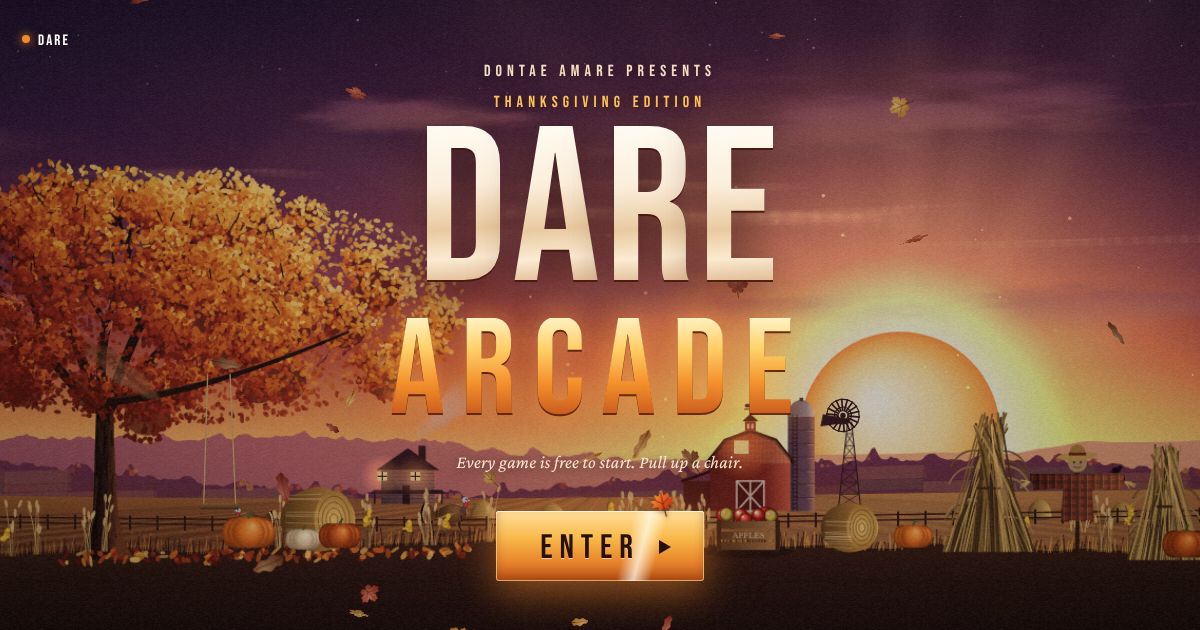
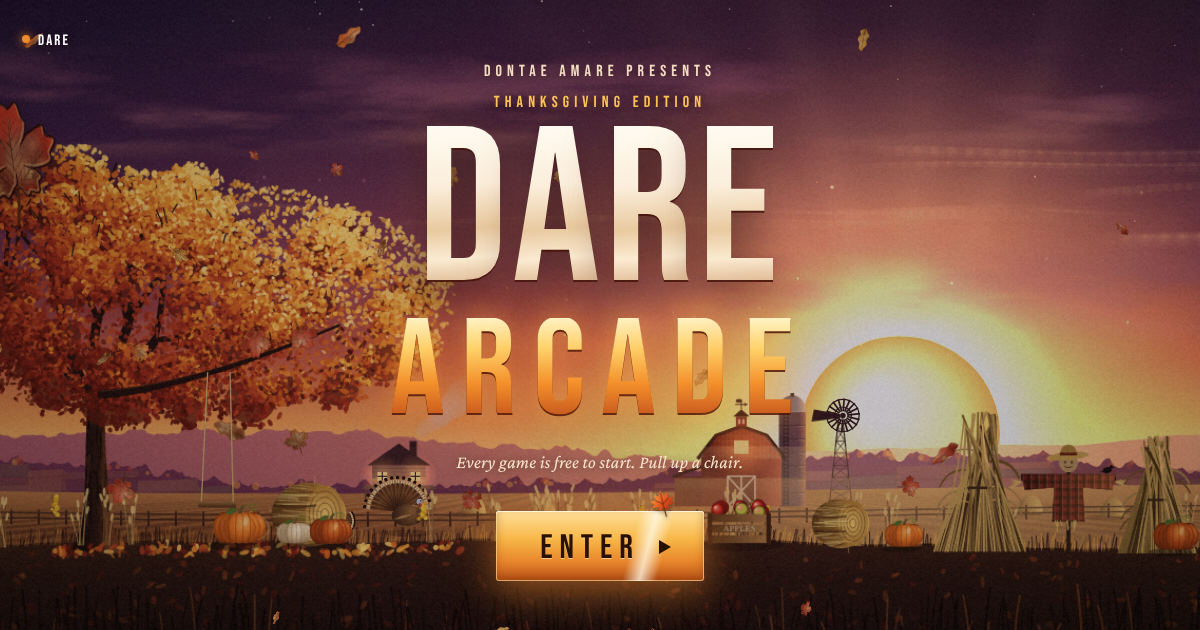
Thanksgiving sunset: solid close-up leaves and richer detail
Close-up leaves are fully opaque, drawn from a large high-resolution set in deep backlit colors
with a soft shadow. All leaves get veins, serrated edges, mottling, age spots and a sunlit rim.
Ribbed glossy pumpkins with vines, textured hay bales with twine, canopy highlights and shade,
soil and leaf litter, grass framing the bottom edge, golden haze on the field, sun glow over the
ridges and a slightly flattened, banded sun. Layers are now centered exactly, so moving pieces
stay lined up with them. New share image.

Claude-Session: https://claude.ai/code/session_0125wngWvCLiCHwUWvS1b6kB

diff --git a/thanksgiving.js b/thanksgiving.js
@@ -76,26 +76,55 @@
     }
     p.closePath(); return p;
   }
-  function leafSprite(kind, col, S) {
+  function leafSprite(kind, col, S, rs, deep) {
+    const R2 = rs || Math.random;
     const c = mk(S * 2.4, S * 2.4), g = c.getContext("2d"); g.translate(S * 1.2, S * 1.15);
-    const path = kind === "maple" ? maplePath(S) : oakPath(S);
+    const path = kind === "maple" ? maplePath(S) : oakPath(S), big = S > 40;
     const gr = g.createLinearGradient(-S, -S, S, S); gr.addColorStop(0, col[0]); gr.addColorStop(1, col[1]);
     g.fillStyle = gr; g.fill(path);
     g.save(); g.clip(path);
-    const sh = g.createRadialGradient(-S * .3, -S * .4, 1, 0, 0, S * 1.2); sh.addColorStop(0, "rgba(255,240,200,.35)"); sh.addColorStop(1, "rgba(60,10,0,.25)");
-    g.fillStyle = sh; g.fillRect(-S * 1.2, -S * 1.2, S * 2.4, S * 2.4); g.restore();
-    g.strokeStyle = "rgba(70,20,5,.55)"; g.lineWidth = Math.max(.6, S * .06); g.lineCap = "round";
-    g.beginPath(); g.moveTo(0, S * .62); g.lineTo(0, -S * .8);
-    if (kind === "maple") { g.moveTo(0, S * .1); g.lineTo(-S * .55, -S * .35); g.moveTo(0, S * .1); g.lineTo(S * .55, -S * .35); }
-    g.stroke();
-    g.beginPath(); g.moveTo(0, S * .55); g.lineTo(S * .05, S * 1.05); g.lineWidth = Math.max(.8, S * .08); g.strokeStyle = "rgba(90,40,10,.9)"; g.stroke();
+    // mottled color: patches of lighter and deeper tones, a few dark age spots
+    for (let i = 0; i < (big ? 26 : 9); i++) {
+      const x = (R2() - .5) * S * 1.8, y = (R2() - .5) * S * 1.8, r = S * (.15 + R2() * .4), light = R2() < .5;
+      const bl = g.createRadialGradient(x, y, 1, x, y, r); bl.addColorStop(0, light ? "rgba(255,226,140,.35)" : "rgba(110,20,6,.32)"); bl.addColorStop(1, "rgba(0,0,0,0)");
+      g.fillStyle = bl; g.fillRect(x - r, y - r, r * 2, r * 2);
+    }
+    for (let i = 0; i < (big ? 10 : 2); i++) { g.fillStyle = `rgba(60,20,6,${.25 + R2() * .3})`; g.beginPath(); g.arc((R2() - .5) * S * 1.3, (R2() - .5) * S * 1.3, S * (.015 + R2() * .035), 0, Math.PI * 2); g.fill(); }
+    const sh = g.createRadialGradient(-S * .3, -S * .45, 1, 0, 0, S * 1.2); sh.addColorStop(0, `rgba(255,244,210,${deep ? .18 : .4})`); sh.addColorStop(.6, "rgba(255,200,120,0)"); sh.addColorStop(1, `rgba(50,8,0,${deep ? .36 : .38})`);
+    g.fillStyle = sh; g.fillRect(-S * 1.2, -S * 1.2, S * 2.4, S * 2.4);
+    // veins: main ribs from the stem, with finer side veins
+    const vein = (x0, y0, ang, len, w) => {
+      const x1 = x0 + Math.cos(ang) * len, y1 = y0 + Math.sin(ang) * len;
+      g.strokeStyle = "rgba(80,22,6,.6)"; g.lineWidth = w; g.beginPath(); g.moveTo(x0, y0); g.quadraticCurveTo((x0 + x1) / 2 + Math.cos(ang + 1.57) * len * .05, (y0 + y1) / 2 + Math.sin(ang + 1.57) * len * .05, x1, y1); g.stroke();
+      g.strokeStyle = "rgba(255,220,160,.28)"; g.lineWidth = w * .45; g.beginPath(); g.moveTo(x0 + .6, y0 - .6); g.lineTo(x1 + .6, y1 - .6); g.stroke();
+      const n = big ? 6 : 3;
+      for (let k = 1; k <= n; k++) { const u = k / (n + 1), px = x0 + (x1 - x0) * u, py = y0 + (y1 - y0) * u;
+        for (const side of [-1, 1]) { const a2 = ang + side * .75, l2 = len * .32 * (1 - u * .5);
+          g.strokeStyle = "rgba(80,22,6,.38)"; g.lineWidth = w * .4; g.beginPath(); g.moveTo(px, py); g.lineTo(px + Math.cos(a2) * l2, py + Math.sin(a2) * l2); g.stroke(); } }
+    };
+    g.lineCap = "round";
+    const vw = Math.max(.6, S * .05), base = [0, S * .5];
+    if (kind === "maple") { for (const [a2, l2] of [[-Math.PI / 2, 1.25], [-Math.PI / 2 - .85, .95], [-Math.PI / 2 + .85, .95], [-Math.PI / 2 - 1.75, .6], [-Math.PI / 2 + 1.75, .6]]) vein(base[0], base[1], a2, S * l2, vw * (l2 > 1 ? 1 : .8)); }
+    else { vein(0, S * .6, -Math.PI / 2, S * 1.5, vw); }
+    g.restore();
+    // edge: a darker margin, and a thin bright rim where the sun shines through
+    g.strokeStyle = deep ? "rgba(40,6,2,.9)" : "rgba(70,14,4,.6)"; g.lineWidth = Math.max(.6, S * (deep ? .045 : .035)); g.stroke(path);
+    g.save(); g.clip(path); g.strokeStyle = "rgba(255,210,130,.35)"; g.lineWidth = Math.max(.8, S * .05); g.translate(S * .03, -S * .03); g.stroke(path); g.restore();
+    g.beginPath(); g.moveTo(0, S * .5); g.quadraticCurveTo(S * .02, S * .85, S * .1, S * 1.08); g.lineWidth = Math.max(.8, S * .07); g.strokeStyle = "rgba(90,40,10,.95)"; g.stroke();
     return c;
   }
-  let SPRITES = [];
+  let SPRITES = [], BIG = [];
   function makeSprites() {
     const S = Math.round(14 * D);
     SPRITES = [];
-    for (const col of LEAF_COLORS) { SPRITES.push(leafSprite("maple", col, S)); SPRITES.push(leafSprite("oak", col, S * .9)); }
+    for (const col of LEAF_COLORS) { SPRITES.push(leafSprite("maple", col, S, rnd)); SPRITES.push(leafSprite("oak", col, S * .9, rnd)); }
+    if (!BIG.length || BIG.D !== D) {                                 // the close-to-the-lens leaves, drawn large so they stay crisp and solid
+      BIG = []; BIG.D = D; const B = Math.round(54 * Math.min(D, 1.5));
+      // close to the lens and backlit by the sunset, these read deeper and richer than the leaves far away
+      const CLOSE = [["#ff8a2a", "#a8240a"], ["#f04a22", "#7a1206"], ["#ffb43a", "#b84a0e"], ["#e0581e", "#6a1a06"], ["#ff9c2e", "#8e2a08"], ["#e23a22", "#6e1006"]];
+      for (const col of CLOSE) { BIG.push(leafSprite("maple", col, B, rnd, true)); BIG.push(leafSprite("oak", col, B * .9, rnd, true)); }
+      BIG.k = B / 14;
+    }
   }
 
   /* ---------- per-size layers ---------- */
@@ -158,7 +187,11 @@
     const disc = mk(R * 2.2 * D, R * 2.2 * D), dg = disc.getContext("2d"); dg.scale(D, D);
     const dr = dg.createRadialGradient(R * 1.1 - R * .25, R * 1.1 - R * .3, R * .1, R * 1.1, R * 1.1, R);
     dr.addColorStop(0, "#fffbe8"); dr.addColorStop(.55, "#ffe39a"); dr.addColorStop(.86, "#ffb553"); dr.addColorStop(1, "#ff9640");
-    dg.fillStyle = dr; dg.beginPath(); dg.arc(R * 1.1, R * 1.1, R, 0, Math.PI * 2); dg.fill();
+    dg.fillStyle = dr; dg.beginPath(); dg.ellipse(R * 1.1, R * 1.1 + R * .02, R, R * .975, 0, 0, Math.PI * 2); dg.fill();
+    dg.save(); dg.beginPath(); dg.ellipse(R * 1.1, R * 1.1 + R * .02, R, R * .975, 0, 0, Math.PI * 2); dg.clip();
+    for (let k = 0; k < 6; k++) { const yy = R * 1.1 + R * (.15 + k * .14); dg.fillStyle = `rgba(255,120,60,${.05 + k * .03})`; dg.fillRect(0, yy, R * 2.2, R * (.02 + k * .008)); }
+    const limb = dg.createRadialGradient(R * 1.1, R * 1.1, R * .6, R * 1.1, R * 1.1, R); limb.addColorStop(0, "rgba(255,120,40,0)"); limb.addColorStop(1, "rgba(230,90,30,.35)");
+    dg.fillStyle = limb; dg.fillRect(0, 0, R * 2.2, R * 2.2); dg.restore();
     L.disc = disc;
     const RS = Math.hypot(Math.max(sun.x, W - sun.x), sun.y) * 1.02, RK = .32, rays = mk(RS * 2 * RK, RS * 2 * RK), rg = rays.getContext("2d"); rg.scale(RK, RK);
     rg.translate(RS, RS);
@@ -338,6 +371,10 @@
     const fenceY = x => fy + fd * .52 + Math.sin(x / W * Math.PI * 1.2 + .4) * 5;
     for (let x = -10; x < W + 20; x += 26) { m.beginPath(); m.moveTo(x, fenceY(x) + 2); m.lineTo(x, fenceY(x) - 12); m.stroke(); }
     m.lineWidth = 1.4; for (const off of [-9, -4]) { m.beginPath(); for (let x = -10; x < W + 20; x += 13) m.lineTo(x, fenceY(x) + off); m.stroke(); }
+    { const hz = m.createLinearGradient(0, fy - 6, 0, fy + fd * .7); hz.addColorStop(0, "rgba(255,190,120,.32)"); hz.addColorStop(1, "rgba(255,170,100,0)");
+      m.globalCompositeOperation = "source-atop"; m.fillStyle = hz; m.fillRect(0, fy - 10, W, fd);
+      const hz2 = m.createRadialGradient(sun.x, fy, 10, sun.x, fy, W * .45); hz2.addColorStop(0, "rgba(255,210,140,.3)"); hz2.addColorStop(1, "rgba(255,190,120,0)");
+      m.fillStyle = hz2; m.fillRect(0, fy - 40, W, fd + 40); m.globalCompositeOperation = "source-over"; }
     L.farm = farm;
 
     /* foreground: dark ground with lit grass, big autumn tree, hay bales, pumpkins, corn shocks */
@@ -355,6 +392,19 @@
       n.lineWidth = .9; n.beginPath(); n.moveTo(x, y + 2); n.quadraticCurveTo(x + lean * .4, y - h * .5, x + lean, y - h); n.stroke();
     }
     L.gy = gy;
+    n.save(); n.beginPath(); n.moveTo(0, H); for (let x = 0; x <= W; x += 4) n.lineTo(x, gy(x) + 6); n.lineTo(W, H); n.closePath(); n.clip();
+    for (let i = 0, k = Math.round(W * (H - yG) / 110); i < k; i++) {                    // soil and fallen leaves
+      const x = rnd() * W, y = yG + rnd() * (H - yG), near = (y - yG) / (H - yG);
+      if (rnd() < .3) { n.fillStyle = pick(["#5e140b", "#7a1c10", "#9c2a16", "#b8401c", "#c4581c"]); n.globalAlpha = (.22 + rnd() * .25) * (1 - near * .75);
+        n.beginPath(); n.ellipse(x, y, 1.6 + rnd() * 3 + near * 3, 1 + rnd() * 1.4 + near, rnd() * Math.PI, 0, Math.PI * 2); n.fill(); }
+      else { n.fillStyle = rnd() < .5 ? "rgba(70,36,18,.45)" : "rgba(8,3,2,.4)"; n.globalAlpha = 1; n.fillRect(x, y, 1 + rnd() * 2, 1); }
+    }
+    n.globalAlpha = 1; n.restore();
+    for (let x = -10; x < W + 10; x += 3 + rnd() * 4) {                                   // tall grass in silhouette along the very bottom
+      const h = 14 + rnd() * (wide ? 46 : 30), lean = (rnd() - .5) * 18;
+      n.strokeStyle = rnd() < .85 ? "rgba(10,4,2,.92)" : "rgba(120,60,24,.6)"; n.lineWidth = 1 + rnd() * 1.4;
+      n.beginPath(); n.moveTo(x, H + 2); n.quadraticCurveTo(x + lean * .3, H - h * .6, x + lean, H - h); n.stroke();
+    }
 
     // the tree, on the left: trunk and branches, then the canopy as shaded clusters of leaves, lit from the sun side
     const phone = W < 600;
@@ -412,6 +462,14 @@
       n.fillStyle = LC[ci]; n.globalAlpha = .7 + rnd() * .3;
       n.beginPath(); n.ellipse(x, y, 1.4 + rnd() * 2.2, 1 + rnd() * 1.4, rnd() * Math.PI, 0, Math.PI * 2); n.fill();
     }
+    for (let j = 0, k = Math.round(crx * cry / 22); j < k; j++) {
+      const a = rnd() * Math.PI * 2, r = Math.sqrt(rnd());
+      const x = ccx + Math.cos(a) * crx * r, y = ccy + Math.sin(a) * cry * r, l2 = litAt(x, y);
+      if (y > ccy + cry * .25 && rnd() < .8) { n.fillStyle = rnd() < .5 ? "#3e0c06" : "#5a1408"; n.globalAlpha = .55 + rnd() * .3; }      // shade under the crown
+      else if (l2 > .55) { n.fillStyle = rnd() < .5 ? "#ffe08a" : "#ffc04a"; n.globalAlpha = .6 + rnd() * .4; }                         // leaves catching the sun
+      else continue;
+      n.beginPath(); n.ellipse(x, y, 1.2 + rnd() * 2, .9 + rnd() * 1.2, rnd() * Math.PI, 0, Math.PI * 2); n.fill();
+    }
     n.globalAlpha = 1;
     // a few branch ends poke out under the leaves
     n.strokeStyle = "#1c0c08"; n.lineCap = "round";
@@ -443,16 +501,34 @@
       n.fillStyle = g4; n.beginPath(); n.ellipse(fx, y - r * .9, r * .55, r * .82, 0, 0, Math.PI * 2); n.fill();
       n.strokeStyle = "rgba(90,50,15,.55)"; n.lineWidth = 1;
       for (let k = 1; k < 5; k++) { n.beginPath(); n.ellipse(fx, y - r * .9, r * .55 * k / 5, r * .82 * k / 5, 0, 0, Math.PI * 2); n.stroke(); }
-      n.strokeStyle = "rgba(255,220,150,.35)"; for (let k = 0; k < 14; k++) { const yy = y - r * .2 - rnd() * r * 1.4; n.beginPath(); n.moveTo(x - r * .9, yy); n.lineTo(x + r * .1, yy + (rnd() - .5) * 3); n.stroke(); }
+      n.save(); n.beginPath(); n.ellipse(x, y - r * .9, r * 1.05, r * .9, 0, 0, Math.PI * 2); n.clip();
+      for (let k = 0; k < 70; k++) { const yy = y - r * .05 - rnd() * r * 1.75, x0 = x - r * 1.05 + rnd() * r * .5;
+        n.strokeStyle = rnd() < .55 ? `rgba(255,${210 + rnd() * 30 | 0},140,${.25 + rnd() * .3})` : `rgba(80,45,12,${.25 + rnd() * .25})`; n.lineWidth = .6 + rnd() * .7;
+        n.beginPath(); n.moveTo(x0, yy); n.quadraticCurveTo(x0 + r * .5, yy + (rnd() - .5) * 4, x0 + r * (.6 + rnd() * .5), yy + (rnd() - .5) * 5); n.stroke(); }
+      n.strokeStyle = "rgba(60,30,10,.7)"; n.lineWidth = Math.max(1, r * .06);                                       // twine wraps
+      for (const u of [.35, .65]) { const yy = y - r * .9 - r * .9 + u * r * 1.8; n.beginPath(); n.moveTo(x - r * 1.05, yy); n.quadraticCurveTo(x - r * .2, yy + r * .08, x + r * .2, yy + r * .02); n.stroke(); }
+      n.restore();
+      for (let k = 0; k < 16; k++) { const a = rnd() * Math.PI * 2; n.strokeStyle = "rgba(240,200,120,.6)"; n.lineWidth = .7;           // loose straw on the outline
+        const ex = x + Math.cos(a) * r * 1.03, ey = y - r * .9 + Math.sin(a) * r * .88; n.beginPath(); n.moveTo(ex, ey); n.lineTo(ex + Math.cos(a) * (2 + rnd() * 5), ey + Math.sin(a) * (2 + rnd() * 5)); n.stroke(); }
     };
     const pumpkin = (x, S, hue) => {
       const y = gy(x) + 3, cx = x, cy = y - S * .42;
+      n.fillStyle = "rgba(20,8,2,.45)"; n.beginPath(); n.ellipse(cx - lit * S * .15, y + 1, S * .62, S * .12, 0, 0, Math.PI * 2); n.fill();
       for (const [ox, rx] of [[-.34, .3], [.34, .3], [-.16, .36], [.16, .36], [0, .4]]) {
-        const gr = n.createRadialGradient(cx + ox * S + rx * S * .3, cy - S * .15, S * .03, cx + ox * S, cy, rx * S * 1.2);
+        const gr = n.createRadialGradient(cx + ox * S + lit * rx * S * .35, cy - S * .16, S * .03, cx + ox * S, cy, rx * S * 1.25);
         gr.addColorStop(0, hue[0]); gr.addColorStop(.5, hue[1]); gr.addColorStop(1, hue[2]);
         n.fillStyle = gr; n.beginPath(); n.ellipse(cx + ox * S, cy, rx * S, S * .38, 0, 0, Math.PI * 2); n.fill();
       }
-      n.fillStyle = "#4a5a22"; n.beginPath(); n.moveTo(cx - S * .04, cy - S * .34); n.quadraticCurveTo(cx, cy - S * .5, cx + S * .1, cy - S * .55); n.lineTo(cx + S * .12, cy - S * .5); n.quadraticCurveTo(cx + S * .04, cy - S * .44, cx + S * .05, cy - S * .34); n.fill();
+      n.strokeStyle = "rgba(60,16,0,.35)"; n.lineWidth = Math.max(.7, S * .025);                                    // ribs
+      for (const ox of [-.26, -.09, .09, .26]) { n.beginPath(); n.moveTo(cx + ox * S * .8, cy - S * .35); n.quadraticCurveTo(cx + ox * S * 1.3, cy, cx + ox * S * .8, cy + S * .36); n.stroke(); }
+      n.fillStyle = "rgba(255,240,210,.28)"; n.beginPath(); n.ellipse(cx + lit * S * .16, cy - S * .16, S * .06, S * .14, lit * .3, 0, Math.PI * 2); n.fill();   // gloss
+      n.strokeStyle = "rgba(255,200,130,.4)"; n.lineWidth = Math.max(.8, S * .03); n.beginPath(); n.ellipse(cx, cy, S * .72, S * .38, 0, lit > 0 ? -1 : 2.2, lit > 0 ? .9 : 4.1); n.stroke();   // rim light
+      n.fillStyle = "#5d4a22"; n.beginPath(); n.moveTo(cx - S * .05, cy - S * .34); n.quadraticCurveTo(cx - S * .02, cy - S * .5, cx + S * .09, cy - S * .56);
+      n.lineTo(cx + S * .13, cy - S * .5); n.quadraticCurveTo(cx + S * .04, cy - S * .45, cx + S * .06, cy - S * .34); n.closePath(); n.fill();
+      n.strokeStyle = "rgba(150,130,70,.6)"; n.lineWidth = .7; n.beginPath(); n.moveTo(cx - S * .02, cy - S * .36); n.quadraticCurveTo(cx, cy - S * .48, cx + S * .08, cy - S * .53); n.stroke();
+      n.strokeStyle = "#6f7a2a"; n.lineWidth = Math.max(.8, S * .025); n.beginPath(); n.moveTo(cx + S * .1, cy - S * .5);
+      n.bezierCurveTo(cx + S * .4, cy - S * .7, cx + S * .5, cy - S * .4, cx + S * .32, cy - S * .42); n.bezierCurveTo(cx + S * .22, cy - S * .44, cx + S * .28, cy - S * .55, cx + S * .36, cy - S * .5); n.stroke();
+      n.fillStyle = "#4f6a24"; n.beginPath(); n.ellipse(cx - S * .2, cy - S * .4, S * .14, S * .07, -.4, 0, Math.PI * 2); n.fill();
     };
     const ORANGE = ["#ffb45a", "#e8701c", "#7a2c08"], CREAM = ["#fff0d0", "#e4c79a", "#8a6a44"], DEEP = ["#ff9a40", "#c44c12", "#5a1c06"];
     const shock = (x, h) => {                                      // corn stalks tied into a teepee
@@ -566,12 +642,12 @@
       flip: rnd() * 6.3, ff: 1.2 + rnd() * 2.6, s: .55 + rnd() * .75, spr: Math.floor(rnd() * 1e6) };
   }
   function drawLeaf(l, x, y) {
-    const sp = SPRITES[l.spr % SPRITES.length]; if (!sp) return;
-    const w = sp.width / D * l.s, h = sp.height / D * l.s;
-    ctx.save(); ctx.translate(x, y); ctx.rotate(l.rot); ctx.scale(Math.cos(l.flip) * .85 + (Math.cos(l.flip) >= 0 ? .15 : -.15), 1);
+    const set = l.big && BIG.length ? BIG : SPRITES, sp = set[l.spr % set.length]; if (!sp) return;
+    const big = l.big && BIG.length, w = (big ? sp.width / BIG.k : sp.width / D) * l.s, h = (big ? sp.height / BIG.k : sp.height / D) * l.s, c = Math.cos(l.flip);
+    ctx.save(); ctx.translate(x, y); ctx.rotate(l.rot); ctx.scale(c * .85 + (c >= 0 ? .15 : -.15), 1);
+    if (l.big) { ctx.shadowColor = "rgba(20,6,2,.35)"; ctx.shadowBlur = 8; ctx.shadowOffsetY = 4; }   // a soft shadow sells how close it is
     ctx.drawImage(sp, -w / 2, -h / 2, w, h); ctx.restore();
   }
-
   function newFlock() {
     const n = 7 + Math.floor(rnd() * 4), dir = -1, s = clamp(W / 120, 5, 9);
     const y = H * (.12 + rnd() * .16), birds = [];
@@ -736,8 +812,12 @@
     }
 
     const sc = Math.max(1.04, 1 + 2 * (30 * PK() + 3) / W), [fxs, fys] = shift(12), [mxs, mys] = shift(20), [nxs, nys] = shift(30);
-    ctx.drawImage(L.far, -W * .02 + fxs, -H * .02 + fys, W * sc, H * sc);
-    ctx.drawImage(L.farm, -W * .02 + mxs, -H * .02 + mys, W * sc, H * sc);
+    ctx.drawImage(L.far, -W * (sc - 1) / 2 + fxs, -H * (sc - 1) / 2 + fys, W * sc, H * sc);
+    // the sun's glow spilling over the ridge tops
+    ctx.globalCompositeOperation = "lighter"; ctx.globalAlpha = .28;
+    ctx.drawImage(L.halo, SX - su.R * 5, SY - su.R * 4.4, su.R * 10, su.R * 8.8);
+    ctx.globalAlpha = 1; ctx.globalCompositeOperation = "source-over";
+    ctx.drawImage(L.farm, -W * (sc - 1) / 2 + mxs, -H * (sc - 1) / 2 + mys, W * sc, H * sc);
     // lit windows, flickering softly like a fire inside
     const P = (x, y, k, ox, oy) => [(x - W / 2) * sc + W / 2 + ox, (y - H / 2) * sc + H / 2 + oy];
     for (const w of L.lights) {
@@ -780,7 +860,7 @@
     }
     ctx.globalCompositeOperation = "source-over";
 
-    ctx.drawImage(L.near, -W * .02 + nxs, -H * .02 + nys, W * sc, H * sc);
+    ctx.drawImage(L.near, -W * (sc - 1) / 2 + nxs, -H * (sc - 1) / 2 + nys, W * sc, H * sc);
 
     // falling leaves (in front of everything but the text)
     for (let i = 0; i < leaves.length; i++) {
@@ -809,11 +889,11 @@
     }
     // now and then a big leaf drifts past close to the lens, soft and out of focus
     if (!reduce && Math.random() < dt / 7 && close.length < 2) close.push({ x: -90, y: H * (.15 + Math.random() * .6), vx: 120 + Math.random() * 90, vy: 15 + Math.random() * 40,
-      rot: Math.random() * 6.3, spin: (Math.random() - .5) * 2, flip: Math.random() * 6.3, ff: 1.5 + Math.random() * 2, s: 3.2 + Math.random() * 1.6, spr: Math.floor(Math.random() * 1e6) });
+      rot: Math.random() * 6.3, spin: (Math.random() - .5) * 2, flip: Math.random() * 6.3, ff: 1.5 + Math.random() * 2, s: 3.2 + Math.random() * 1.6, spr: Math.floor(Math.random() * 1e6), big: true });
     for (let i = close.length - 1; i >= 0; i--) {
       const c = close[i]; c.x += c.vx * dt; c.y += (c.vy + Math.sin(t * 1.4 + i) * 30) * dt; c.rot += c.spin * dt; c.flip += c.ff * dt;
       if (c.x > W + 120) { close.splice(i, 1); continue; }
-      ctx.globalAlpha = .5; drawLeaf(c, c.x, c.y); ctx.globalAlpha = 1;
+      drawLeaf(c, c.x, c.y);
     }
     // faint lens flare along the line from the sun through the middle of the screen
     { const fx0 = SX, fy0 = SY, vx2 = W / 2 - fx0, vy2 = H / 2 - fy0, k0 = .85 + .15 * Math.sin(t * .5);

diff --git a/index.html b/index.html
@@ -10,7 +10,7 @@
 <meta name="description" content="Free browser games from Dontae Amare. Play The Last Don, a match-3 set in Fort Worth.">
 <meta property="og:title" content="DARE Arcade">
 <meta property="og:description" content="Browser games by Dontae Amare. Every game is free to start, with more on the way.">
-<meta property="og:image" content="https://darearcade.vercel.app/icons/og.png?v=6">
+<meta property="og:image" content="https://darearcade.vercel.app/icons/og.png?v=7">
 <meta property="og:image:width" content="1200">
 <meta property="og:image:height" content="630">
 <meta name="twitter:card" content="summary_large_image">
@@ -650,7 +650,7 @@ html.standalone .fs-link,html.standalone .tip{display:none}
       [...t].forEach((ch,i)=>{const l=document.createElement('span');l.className='ch';l.setAttribute('aria-hidden','true');l.textContent=ch;l.style.setProperty('--i',i+wi*4);w.appendChild(l)})});
     const add=src=>{const sc=document.createElement('script');sc.src=src;document.body.appendChild(sc)};
     if(HW){add('/halloween.js?v=10');add('/halloween-spider.js?v=2');}
-    if(TG)add(/[?&]scene=table\b/.test(location.search)?'/thanksgiving-table.js?v=1':'/thanksgiving.js?v=3');}
+    if(TG)add(/[?&]scene=table\b/.test(location.search)?'/thanksgiving-table.js?v=1':'/thanksgiving.js?v=4');}
   // Enter gate
   const gate=document.getElementById('gate'),btn=document.getElementById('enterBtn');
 

diff --git a/README.md b/README.md
@@ -223,7 +223,7 @@ Every push to `main` redeploys automatically.
 - The scene is painted by `/halloween.js` on one canvas at up to 2x pixel density, loaded only while the Halloween enter page is showing: a textured moon (seas, craters, limb darkening), twinkling stars, drifting noise clouds and two layers of ground fog, a far treeline with a lit chapel, a gnarled tree drawn branch by branch, moon-rimmed headstones, an iron fence and grass, shaded jack-o'-lanterns that flicker and light the ground, bats with flapping wings, rising embers, a vignette and film grain. Static layers are drawn once per screen size; each frame only composites them and moves the animated parts. It stops when the gate closes, and draws one still frame for people with reduced motion turned on.
 - Preview it any time with `/?season=halloween`; `/?season=off` shows the normal page. Styles are under `html.halloween` in `index.html`.
 - From November 1 through the Sunday after Thanksgiving (the fourth Thursday of November, worked out each year) the enter page is a Thanksgiving harvest sunset: "Thanksgiving Edition", "Pull up a chair", "Gather round", a countdown to Thanksgiving, a cream-and-gold title that rises in letter by letter, and a harvest-gold Enter button that a maple leaf drifts down onto, rocks on, and blows off. It switches off by itself after Thanksgiving weekend.
-- The scene is painted by `/thanksgiving.js` on one canvas, loaded only while the Thanksgiving enter page is showing: a harvest sunset. A low sun with soft, feathered rays that turn slowly and a faint lens flare sets behind three hazy ridges (the nearest one covered in patchwork fields and hedgerows); sunset clouds drift and thin cirrus wisps catch the light. The farm: fields with crop rows, a dirt lane, haystacks, a red barn with board siding, shingles, a side shed, a cupola and a weathervane, a silo with a dome and ladder, a farmhouse with clapboard, a porch, paned windows that glow and chimney smoke, a fence, and a windmill whose wheel turns with the wind. In front: a big autumn tree with bark and a rope swing that rocks, hay bales, pumpkins, corn shocks, a scarecrow in a plaid shirt with a crow on his arm, a crate of apples, goldenrod and dried grass. Wild turkeys walk the field, stop to peck, and the tom fans his tail. Leaves tumble in the wind (now and then a big out-of-focus one drifts right past the lens), geese fly over in a V and dust drifts in the light, with a vignette and film grain. Sound (off until turned on): wind, dry leaves in the gusts, and geese honking when the flock passes. Tapping Enter swirls leaves out of the button as the scene pushes in. It steps its resolution down on slow phones, stops when the gate closes, and draws one still frame for reduced motion.
+- The scene is painted by `/thanksgiving.js` on one canvas, loaded only while the Thanksgiving enter page is showing: a harvest sunset. A low sun with soft, feathered rays that turn slowly and a faint lens flare sets behind three hazy ridges (the nearest one covered in patchwork fields and hedgerows); sunset clouds drift and thin cirrus wisps catch the light. The farm: fields with crop rows, a dirt lane, haystacks, a red barn with board siding, shingles, a side shed, a cupola and a weathervane, a silo with a dome and ladder, a farmhouse with clapboard, a porch, paned windows that glow and chimney smoke, a fence, and a windmill whose wheel turns with the wind. In front: a big autumn tree with bark, sunlit highlights and shade under the crown, and a rope swing that rocks, hay bales with straw and twine, ribbed glossy pumpkins with curling vines, corn shocks, a scarecrow in a plaid shirt with a crow on his arm, a crate of apples, goldenrod and dried grass. Wild turkeys walk the field, stop to peck, and the tom fans his tail. Leaves tumble in the wind, each with veins, jagged edges, mottled color and a sunlit rim; now and then a big, solid, backlit leaf drifts right past the lens with a soft shadow (drawn from a separate high-resolution set so it stays crisp), geese fly over in a V and dust drifts in the light, with a vignette and film grain. Sound (off until turned on): wind, dry leaves in the gusts, and geese honking when the flock passes. Tapping Enter swirls leaves out of the button as the scene pushes in. It steps its resolution down on slow phones, stops when the gate closes, and draws one still frame for reduced motion.
 - A second version, a candlelit table with a cornucopia, is kept as `/thanksgiving-table.js`; preview it with `/?season=thanksgiving&scene=table` (share image `icons/og-thanksgiving-table.png`).
 - Preview it with `/?season=thanksgiving`. Styles are under `html.thanksgiving` in `index.html`.
 - Share preview image: `icons/og.png` is the Thanksgiving image right now. The Halloween one is `icons/og-halloween.png` and the everyday one is `icons/og-classic.png`; copy the right one over `og.png` (and bump `?v=` in `index.html`) when the season changes, since link previews can't run the page's date check.
